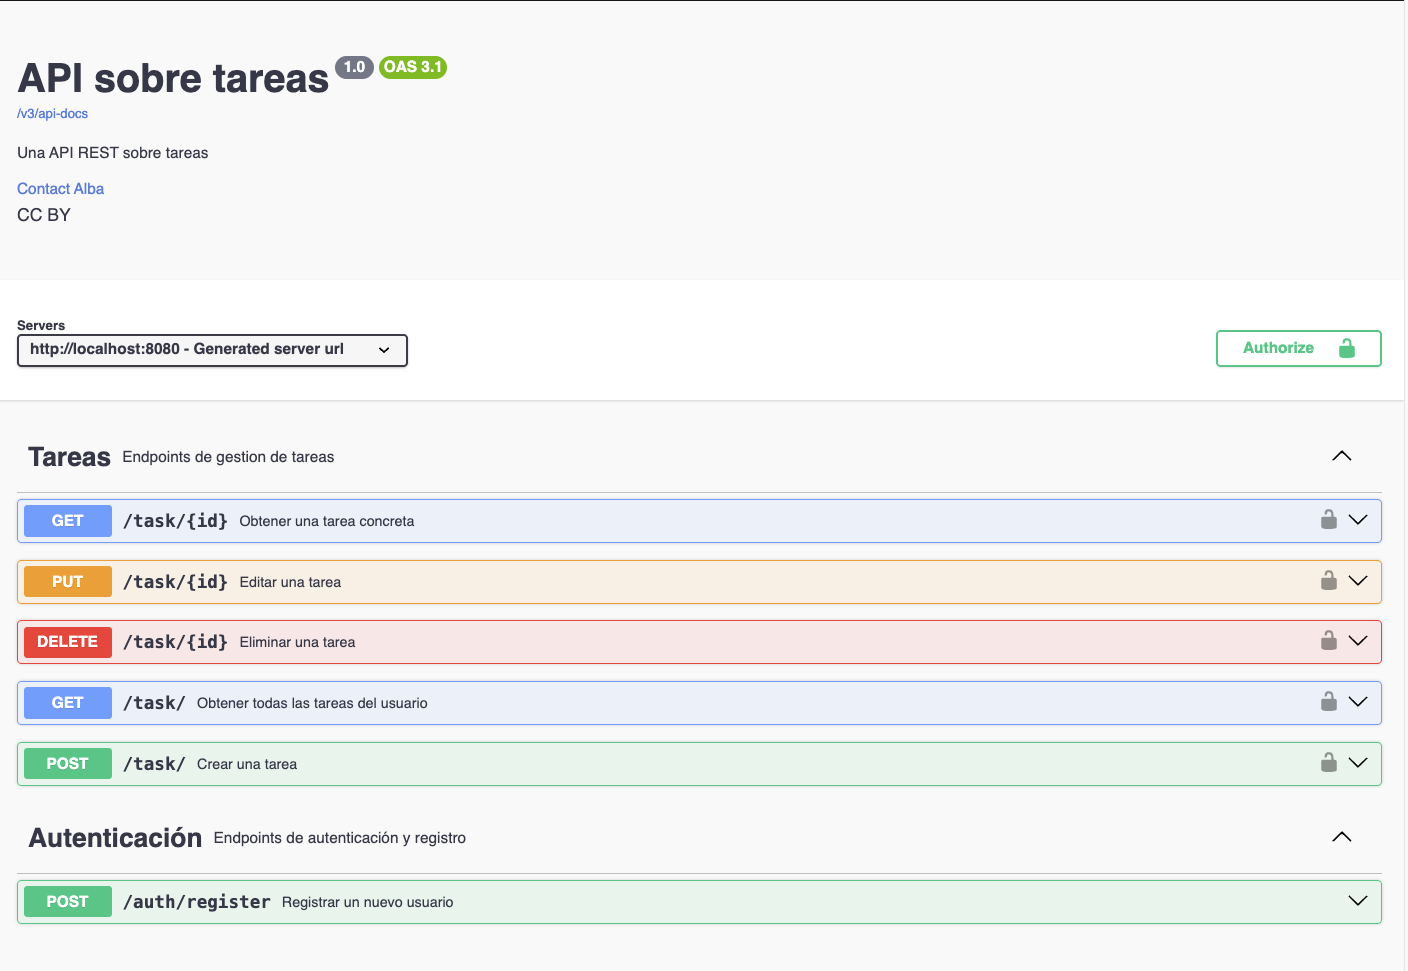
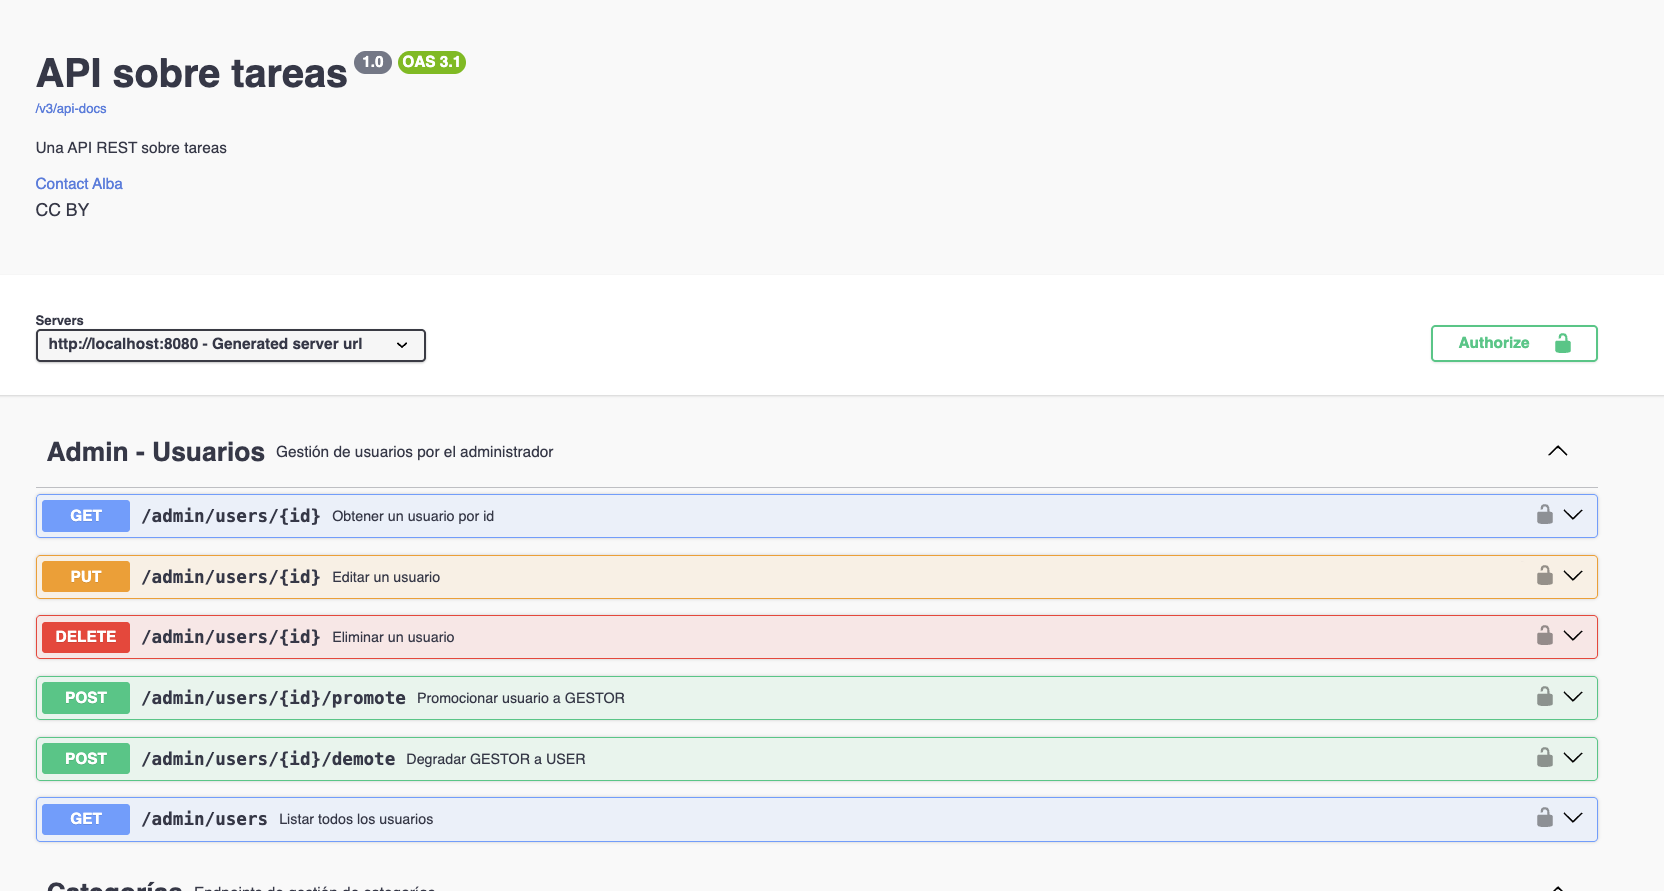
Changing README

diff --git a/README.md b/README.md
@@ -1,20 +1,48 @@
-# Desarrollo de una API REST con Spring Boot
+# Todo REST — API REST con Spring Boot
 
-Proyecto del curso de [OpenWebinars](https://openwebinars.net). API REST para la gestion de tareas (To-Do) desarrollada con Spring Boot 4 y Java 17.
+API REST para la gestión de tareas (To-Do List) desarrollada con **Spring Boot 4** y **Java 17**, con autenticación, control de acceso por roles y documentación Swagger. Forma parte de un proyecto Full Stack junto con el frontend en React ([taskrest-front](https://github.com)).
 
-## Tecnologias
+---
 
-- **Spring Boot 4.0.2**
-- **Spring Security** (Basic Auth)
-- **Spring Data JPA**
-- **H2 Database** (base de datos embebida)
-- **Lombok**
-- **Springdoc OpenAPI 3.0.1** (Swagger UI)
+## Tecnologías
+
+| Tecnología | Versión | Uso |
+|---|---|---|
+| Java | 17 | Lenguaje de programación |
+| Spring Boot | 4.0.2 | Framework principal |
+| Spring Security | — | Autenticación y autorización (Basic Auth) |
+| Spring Data JPA | — | Acceso y persistencia de datos |
+| MySQL | — | Base de datos relacional |
+| Lombok | — | Reducción de código boilerplate |
+| Springdoc OpenAPI | 3.0.1 | Documentación Swagger UI |
+
+---
 
 ## Requisitos
 
 - Java 17+
 - Maven
+- MySQL en ejecución
+
+---
+
+## Configuración
+
+Crea la base de datos en MySQL:
+
+```sql
+CREATE DATABASE todo_db;
+```
+
+Configura las credenciales en `src/main/resources/application.properties`:
+
+```properties
+spring.datasource.url=jdbc:mysql://localhost:3306/todo_db
+spring.datasource.username=tu_usuario
+spring.datasource.password=tu_contraseña
+```
+
+---
 
 ## Ejecutar el proyecto
 
@@ -22,29 +50,102 @@ Proyecto del curso de [OpenWebinars](https://openwebinars.net). API REST para la
 ./mvnw spring-boot:run
 ```
 
-La aplicacion se levanta en `http://localhost:8080`.
+La aplicación se levanta en `http://localhost:8080`.
+
+Al arrancar, se crean automáticamente tres usuarios de ejemplo:
+
+| Usuario | Contraseña | Rol |
+|---|---|---|
+| admin | admin | ADMIN |
+| user1 | 12345 | USER |
+| user2 | 12345 | USER |
+
+---
+
+## Modelado de datos
+
+![Modelado de datos](docs/modelado_datos.png)
+
+---
+
+## Casos de uso
+
+![Casos de uso](docs/casos_uso.png)
+
+---
 
 ## Endpoints
 
-### Auth
+### Autenticación
 
-| Metodo | Ruta              | Descripcion               | Auth |
-|--------|--------------------|---------------------------|------|
-| POST   | `/auth/register`   | Registrar un nuevo usuario | No   |
+| Método | Ruta | Acceso | Descripción |
+|---|---|---|---|
+| POST | `/auth/register` | Público | Registrar nuevo usuario |
+| GET | `/auth/me` | Autenticado | Obtener usuario autenticado |
+| PUT | `/user/profile` | Autenticado | Modificar perfil propio |
 
 ### Tareas
 
-Todos los endpoints de tareas requieren **Basic Auth**.
+| Método | Ruta | Acceso | Descripción |
+|---|---|---|---|
+| GET | `/task/` | USER/GESTOR | Listar tareas propias |
+| GET | `/task/{id}` | USER/GESTOR | Obtener tarea por ID |
+| POST | `/task/` | USER/GESTOR | Crear tarea |
+| PUT | `/task/{id}` | USER/GESTOR | Editar tarea |
+| DELETE | `/task/{id}` | USER/GESTOR | Eliminar tarea |
+| GET | `/task/search?title=` | USER/GESTOR | Buscar por título |
+| GET | `/task/search?status=` | USER/GESTOR | Buscar por estado |
+| GET | `/task/search?priority=` | USER/GESTOR | Buscar por prioridad |
+| GET | `/task/by-tag?tag=` | USER/GESTOR | Buscar por etiqueta |
+| POST | `/task/{id}/tags` | USER/GESTOR | Asignar etiquetas a una tarea |
+| DELETE | `/task/{id}/tags/{tagId}` | USER/GESTOR | Desasociar etiqueta de una tarea |
 
-| Metodo | Ruta          | Descripcion                          |
-|--------|---------------|--------------------------------------|
-| GET    | `/task/`      | Obtener todas las tareas del usuario |
-| GET    | `/task/{id}`  | Obtener una tarea por ID             |
-| POST   | `/task/`      | Crear una nueva tarea                |
-| PUT    | `/task/{id}`  | Editar una tarea                     |
-| DELETE | `/task/{id}`  | Eliminar una tarea                   |
+### Etiquetas
 
-### Ejemplo de registro
+| Método | Ruta | Acceso | Descripción |
+|---|---|---|---|
+| GET | `/tag/` | USER/GESTOR | Listar etiquetas propias |
+| GET | `/tag/{id}` | USER/GESTOR | Obtener etiqueta por ID |
+| POST | `/tag/` | USER/GESTOR | Crear etiqueta |
+| PUT | `/tag/{id}` | USER/GESTOR | Editar etiqueta |
+| DELETE | `/tag/{id}` | USER/GESTOR | Eliminar etiqueta |
+
+### Categorías
+
+| Método | Ruta | Acceso | Descripción |
+|---|---|---|---|
+| GET | `/categories` | Autenticado | Listar categorías |
+| GET | `/manager/categories` | GESTOR/ADMIN | Listar categorías |
+| POST | `/manager/categories` | GESTOR/ADMIN | Crear categoría |
+| PUT | `/manager/categories/{id}` | GESTOR/ADMIN | Editar categoría |
+| DELETE | `/manager/categories/{id}` | GESTOR/ADMIN | Eliminar categoría |
+| GET | `/admin/categories` | ADMIN | Listar categorías |
+| POST | `/admin/categories` | ADMIN | Crear categoría |
+| PUT | `/admin/categories/{id}` | ADMIN | Editar categoría |
+| DELETE | `/admin/categories/{id}` | ADMIN | Eliminar categoría |
+
+### Usuarios (Admin)
+
+| Método | Ruta | Acceso | Descripción |
+|---|---|---|---|
+| GET | `/admin/users` | ADMIN | Listar todos los usuarios |
+| GET | `/admin/users/{id}` | ADMIN | Obtener usuario por ID |
+| PUT | `/admin/users/{id}` | ADMIN | Editar usuario |
+| DELETE | `/admin/users/{id}` | ADMIN | Eliminar usuario |
+| POST | `/admin/users/{id}/promote` | ADMIN | Promocionar USER a GESTOR |
+| POST | `/admin/users/{id}/demote` | ADMIN | Degradar GESTOR a USER |
+
+### Dashboard
+
+| Método | Ruta | Acceso | Descripción |
+|---|---|---|---|
+| GET | `/dashboard` | USER/GESTOR | Estadísticas de tareas propias |
+
+---
+
+## Ejemplos de uso
+
+### Registro de usuario
 
 ```bash
 curl -X POST http://localhost:8080/auth/register \
@@ -52,42 +153,53 @@ curl -X POST http://localhost:8080/auth/register \
   -d '{
     "username": "pepe",
     "email": "pepe@example.com",
+    "fullname": "Pepe García",
     "password": "1234"
   }'
 ```
 
-### Ejemplo de crear tarea
+### Crear tarea
 
 ```bash
 curl -X POST http://localhost:8080/task/ \
-  -u pepe:1234 \
+  -u user1:12345 \
   -H "Content-Type: application/json" \
   -d '{
     "title": "Aprender Spring Boot",
     "description": "Hacer todos los cursos de Spring Boot en Openwebinars.net",
-    "deadline": "2026-12-31T23:59:59"
+    "deadline": "2026-12-31T23:59:59",
+    "priority": "HIGH",
+    "categoryId": 1,
+    "tagIds": [1]
   }'
 ```
 
+---
+
 ## Seguridad
 
-- Los endpoints de tareas estan protegidos con **HTTP Basic Auth**.
-- Cada usuario solo puede ver, editar y eliminar sus propias tareas (`@PreAuthorize` / `@PostAuthorize`).
+- Todos los endpoints están protegidos con **HTTP Basic Auth** salvo `/auth/register`.
+- El acceso se controla por roles: `USER`, `GESTOR` y `ADMIN`.
+- Cada usuario solo puede ver y gestionar sus propios recursos.
+- Las contraseñas se almacenan cifradas con **BCrypt**.
 
-## Documentacion API (Swagger)
+---
 
-Con la aplicacion en ejecucion, accede a:
+## Documentación API (Swagger)
 
-- **Swagger UI:** http://localhost:8080/swagger-ui.html
-- **OpenAPI JSON:** http://localhost:8080/v3/api-docs
+Con la aplicación en ejecución, accede a:
+
+- **Swagger UI:** `http://localhost:8080/swagger-ui/index.html`
+- **OpenAPI JSON:** `http://localhost:8080/v3/api-docs`
 
 ![Swagger UI](docs/swagger.png)
 
-## Base de datos
+---
 
-Utiliza **H2** como base de datos embebida. La consola H2 esta disponible en:
+## Despliegue con Docker
 
-- http://localhost:8080/h2-console
-- JDBC URL: `jdbc:h2:./db/database`
-- Usuario: `sa`
-- Password: _(vacio)_
+El proyecto está preparado para desplegarse con Docker Compose junto al frontend y la base de datos en un servidor VPS de **IONOS**.
+
+```bash
+docker-compose up -d
+```
